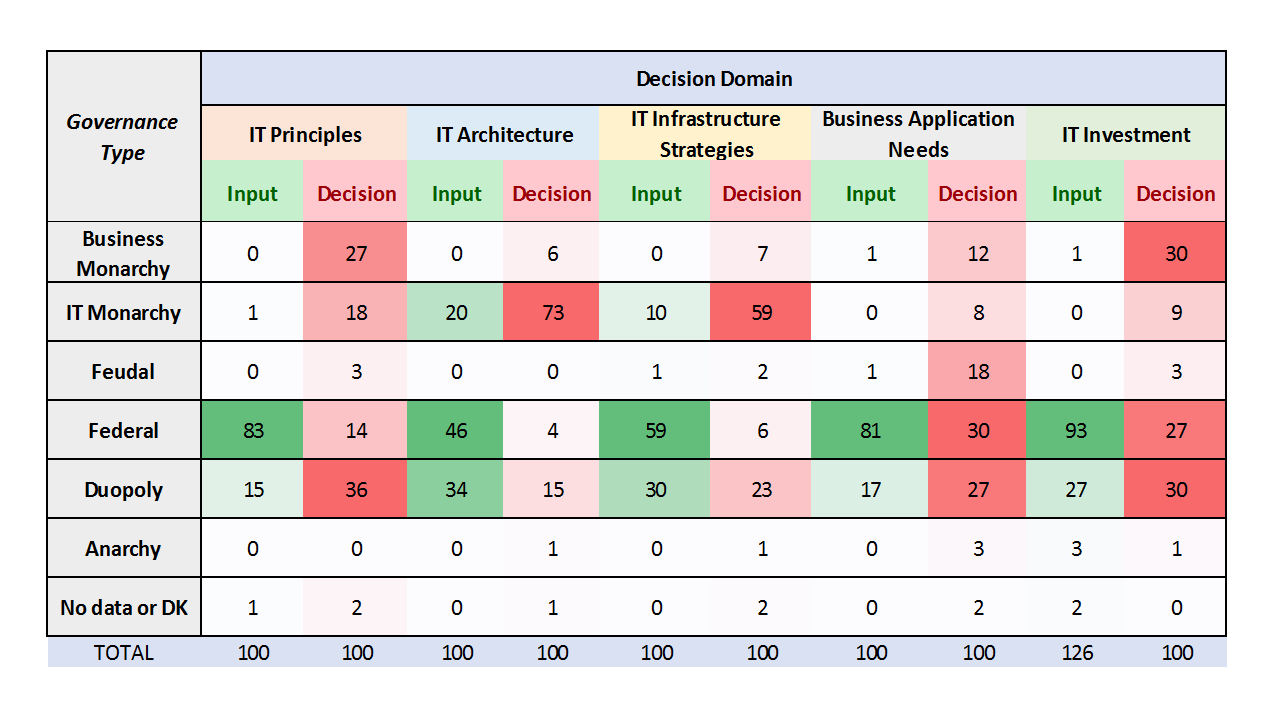
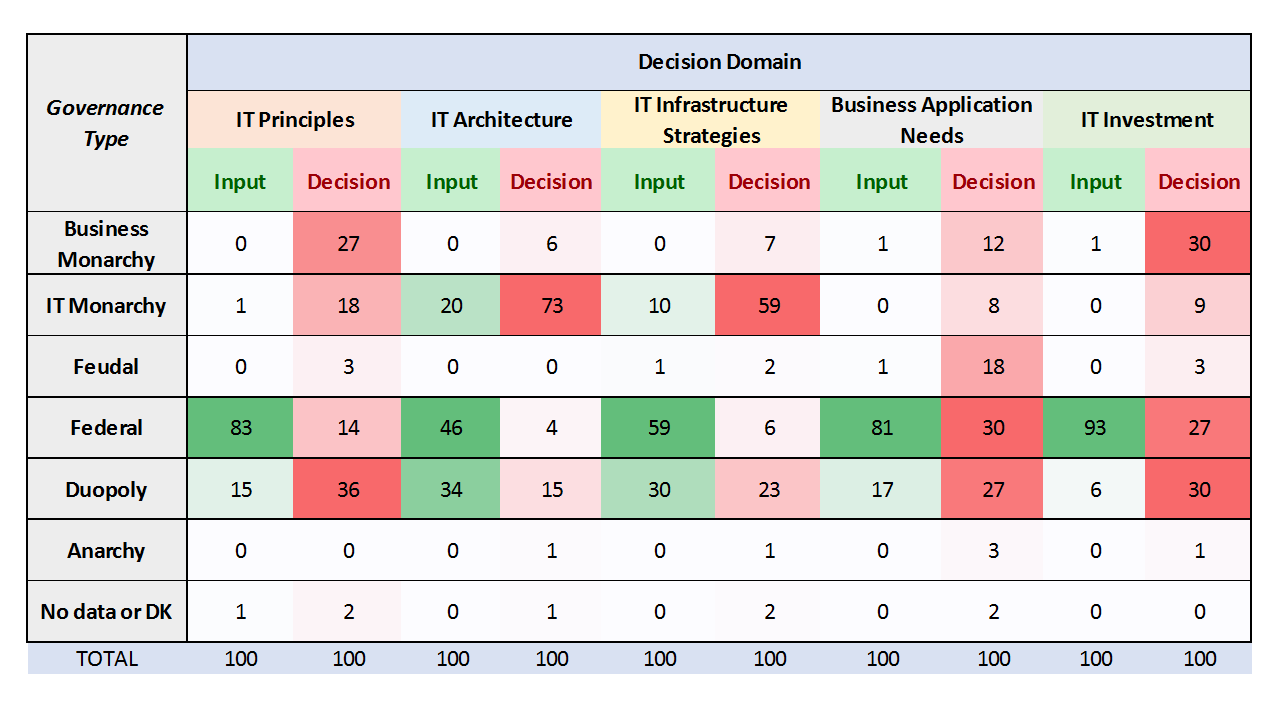
Fixed bad numbers in the decision tmodel able

diff --git a/Chapter4/Ch04_Basics.md b/Chapter4/Ch04_Basics.md
@@ -264,39 +264,22 @@ Weill provides the following table, detailing the extent of use of the various m
 **Table SRWP. Distribution of Decision-making Models across various Decision Domains**
 
 ![The big picture of the organisation](https://raw.githubusercontent.com/robertriordan/2400/master/Images/decision_models.png)
+
+Source: [Weill, 2004.](https://www.semanticscholar.org/paper/Don-t-Just-Lead-Govern-How-Top-Performing-Firms-Weill/6a4358e40b8f1f9bcb7f20d272a07efdecbb8ec2/pdf) 
+
+Plenty to chew on in this table. In the left column we find the decision models as discussed above. Across the top, we find five what are called *Decision Domains* or areas of decision that cluster together in organisations. *IT Principles* decisions set the strategic role for ICT across the enterprise. ICT alignment with firm-level strategy is in this domain. Very high-level stuff. Next to the right is the IT Architecture decision type. These decisions concern the *how* things are done in the firm rather than the *what*, which is more of a *Principles* decision. Next we see *IT Infrastructure Strategies*, defined by [Technopedia](https://www.techopedia.com/definition/29199/it-infrastructure) as: "... the composite hardware, software, network resources and services required for the existence, operation and management of an enterprise IT environment.  It allows an organization to deliver IT solutions and services to its employees, partners and/or customers and is usually internal to an organization and deployed within owned facilities." This is basically everything ICT about the organisation, so it's big. Next comes *Business Application Needs*. Likely you can fuigure that one out. It's about what hardware/software/services are required by the various business units of the organisation. Finally (I know, right?) we have*IT Investment*; what kind of resources are we going to throw at the ICT function in the organisation.
+
+It's not really important for you to master these various decision types. It's good to know what they are and what roughly they cover, but in-depth, not so much. What is interesting, however, is how the decisions are made and who makes them. You will note in each domain type here are two sub-domains: *Input* and *Decision*. Input refers to who can *ask for something* in the domain. Decision refers to who says *yes or no* to the ask. Let's get to the meat here.
+
+Input columns are coded as green, and decision columns, red. THe figures in each cell represent the percentage of organisations that used each Governance Type in the respective domain. So the columns sum to 100. The amount of *greenness* or *redness* indicates where the largest numbers in the column are located. Under Input for IT Principles, for example, asking from strategic alignment uses overwhelmingly a Federal model. Federal models are overwhelmingly characterised by a cooperation between senior management and the various business units. This makes sense. ICT needs to be aligned with the business needs of the firm, which in turn drive overall strategy. So it's nice we have a democracy here. But when it comes to decisions, we see a lot of red distributed along the column. The predominant model is IT Duopoly, characterised by agreement between the ICT folks and the various business units. But Business monarchy is also popular, wherein decisions are made at the top and pushed down to the various business units. Democracy when asking but dictatorship when deciding. An interesting situation.
+
+We won't belabour all the various domain types and decision models much further than to point out that most of the colour (so most of the activity) is in the *Federal* and *Duopoly* rows, with the notable exception of decisions on *IT Architecture* and IT *Infrastructure Strategies*. This is a particularly technical domain and it's a good thing that decisions are left to the technical professionals in the ICT function in this area. It's also apparent that decisions on *IT Principles* and *IT Investment* are made at the very highest level by the *Monarchy*. 'Twas ever thus.
+
 (TK)
 
 Week 4 chapter 7 - history of retail innovation.
 e-commerce and frictionless economy
 Types of e-commerce
-
-
-Plus all the stuff from Module 1 (etc.)
-
-From Module 2:
-IS should not be used as a cure-all for organizational problems. Even today, with the knowledge of best practices, project management, and information systems, failures in the implementation of such critical systems like Enterprise Resource Planning (ERP) still occur. In many cases, we cannot blame these failures on technology. The key to developing a good strategy to achieve an organization’s goals is to buy, rent or build but at any rate, have well-designed and well-managed systems available.
-
-Also Module 2:
-
-IT is a crucial part of an organization’s assets. It must be managed like any other asset, through governance and planning. This means that the business impact of IT investments must be as measurable and compelling as any other business case. Strategically, CIOs must justify IT spending and show return the same as any other strategic investment. Competitive advantages because of information technology are no longer sustainable advantages [what does this mean and why is it important?, therefore IT is granted no special dispensation when it comes to budget, capital or other strategic investments.
-
-Using our simple test of whether or not there is less input... think here. 
-
-Ensuring alignment of IS strategy and business strategy
-Because of the pervasiveness and importance of IS in the business environment, it is imperative for businesses to ensure that their IS strategies are aligned with and adequately reflect their overall business strategy. If these strategies are misaligned, an organization’s ability to meet its goals and objectives can be severely jeopardized. For example, given the significant percentage of capital investment represented by IT assets, it is critical that these assets, and the systems they support, fit with the objectives and strategies of the business as a whole. The business/IS strategic alignment in the example (increase sales by 10% aligned with a reduction in backup/archive/recovery costs resulting in increased system availability) works because the goal of increased sales as a key business strategy is supported by backup initiative of IS. 
-
-IT Decision making structures (EDIT THIS)
-Among the most common decision-making structures are:
-· executive or senior management committees which provide ongoing business leadership and involvement in IT—often referred to as an IT steering committee
-· IT leadership committees composed of senior IT leaders from different areas of IT, such as infrastructure and development
-· process teams made up of IT members and business/IT relationship managers
-· IT councils composed of business and IT executives
-· architecture committees
-· capital approval committees
-
-Of these, CIOs rate IT leadership committees and business/IT relationship managers as the most effective means of ensuring adequate decision making. In both cases IT expertise is matched with business knowledge so that decisions are more comprehensive than departmental.
-
-Corporate governance: Week 8 Chapter 5 governance notes. 
 
 Risk Management - Week 5 Chapter 4
 
